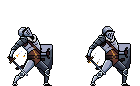
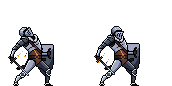
v0.1.3

Changed region(s): [[0.5429, 0.3023, 0.9429, 1.0], [0.0286, 0.3023, 0.4, 1.0]]

diff --git a/Characters.py b/Characters.py
@@ -5,14 +5,18 @@ from customFunctions import load_sprite_sheets
 class Characters(pg.sprite.Sprite):
     GRAVITY = 50
     def __init__(self, sprite_dir1, sprite_dir2,sprite_w, sprite_h, x, y,speed, jump_p,
-                 strength,dmg,hp, range,  scale = 2):
+                 strength,dmg,hp, range,  scale = 2, death_offset = 0):
         super().__init__()
         self.size = (sprite_w*scale, sprite_h*scale)
         self.sprites = load_sprite_sheets(sprite_dir1, sprite_dir2, sprite_w, sprite_h, scale=scale)
         self.sprite = self.sprites["Idle_right"][0]
         self.pos = list((x, y))
         self.vel = list((0, 0))
+        self.hp_bar_width = 100
+        self.hp_bar_height = 30
         self.hp = hp
+        self.hp_bar = pg.Rect(x+self.size[0]//2 - self.hp_bar_width//2,
+                                  y, self.hp_bar_width, self.hp_bar_height)
         self.range = range
         self.rect = pg.Rect(x,y,sprite_w *scale , sprite_h * scale) # collision rect (collision with mask)
         self.jump_p = jump_p
@@ -22,17 +26,19 @@ class Characters(pg.sprite.Sprite):
         self.anim_count = 0 # animation frame counter
         self.animation_time = 7 # frames before next animation frame
         self.fall_count = 0
-        self.mask = pg.mask.from_surface(self.sprite)
-        self.collision_x = False
-        self.collision_y = False
+        self.deathoffset = death_offset # adjusts death animation to fit
         self.dead = False
-        self.is_attacking = False
         self.melee = False
         self.direction = "right"
         self.type = "Character"
         self.collide_with = ["Object"] # list of object types that player can't walk through
+        self.mask = pg.mask.from_surface(self.sprite)
+        self.collision_x = False
+        self.collision_y = False
+        self.is_attacking = False
         self.attack_cooldown = 0
         self.attack_frame = False # frame in which collision test takes place
+        self.hit = False
 
     def draw(self, surface, offset):
         if not self.dead:
@@ -43,34 +49,37 @@ class Characters(pg.sprite.Sprite):
                 self.sprite = self.sprites["Run_"+self.direction][
                     self.anim_count // self.animation_time % len(self.sprites["Run_"+self.direction])]
             elif self.vel[1] != 0:
-                self.sprite = self.sprites["Fall_"+self.direction][
-                    self.anim_count // self.animation_time % len(self.sprites["Fall_"+self.direction])]
+                self.sprite = self.sprites["Idle_"+self.direction][
+                    self.anim_count // self.animation_time % len(self.sprites["Idle_"+self.direction])]
             if self.is_attacking:
                 if self.anim_count // self.animation_time <= len(self.sprites["Attack1_"+self.direction]):
                     self.sprite = self.sprites["Attack1_"+self.direction][
                         self.anim_count // self.animation_time % len(self.sprites["Attack1_"+self.direction])]
                 else:
                     self.is_attacking = False
-                if self.anim_count / self.animation_time == len(self.sprites["Attack1_" + self.direction]):
+                if self.anim_count / self.animation_time == len(self.sprites["Attack1_" + self.direction])-1:
                     self.attack_frame = True
                 else:
                     self.attack_frame = False
+            if self.hit:
+                self.sprite = self.sprites["Hurt_"+self.direction][self.anim_count//self.animation_time]
+                if self.anim_count+1 == (len(self.sprites["Hurt_"+self.direction]))*self.animation_time:
+                    self.hit = False
 
-            self.rect.x += offset[0]
-            self.rect.y += offset[1]
-            pg.draw.rect(surface, (0, 0, 255), self.rect, 2)
-            self.rect.x -= offset[0]
-            self.rect.y -= offset[1]
             surface.blit(self.sprite, (self.pos[0] + offset[0], self.pos[1]+offset[1]))
             self.anim_count += 1
         else:
             self.sprite = self.sprites["Dead_"+self.direction][
-                self.anim_count // self.animation_time % len(self.sprites["Dead_"+self.direction])]
-            surface.blit(self.sprite, (self.pos[0] + offset[0], self.pos[1]+offset[1]))
+                min(len(self.sprites["Dead_" + self.direction]) -1,
+                    self.anim_count // self.animation_time)]
+            surface.blit(self.sprite, (self.pos[0] + offset[0] + self.deathoffset,
+                                       self.pos[1]+offset[1]))
             self.anim_count += 1
 
     def update(self, objects, delta_time):
         if not self.dead:
+            self.loop()
+
             self.attack_cooldown = max(0, self.attack_cooldown-1)
             self.gravity_acc = min(1,(self.fall_count/1000 /delta_time) * self.GRAVITY)
             self.vel[1] += self.gravity_acc
@@ -94,27 +103,36 @@ class Characters(pg.sprite.Sprite):
             pass
 
     def attack(self):
-        if self.attack_cooldown == 0:
+        if self.attack_cooldown == 0 and not self.hit:
             self.is_attacking = True
             self.anim_count = 0
             self.vel[0] = 0
             self.attack_cooldown = len(self.sprites["Attack1_right"])*self.animation_time
 
-    def get_attacked(self, dmg, str):
+    def get_attacked(self, dmg, str, object):
         if not self.dead:
+            if object.direction == "right":
+                self.direction = "left"
+                self.vel[0] += str
+            else:
+                self.direction = "right"
+                self.vel[0] -= str
+            self.hit = True
+            self.vel[1] -= 0.2
             self.hp -= dmg
+            self.anim_count = 0
             if self.hp <=0:
                 self.dead = True
                 self.anim_count = 0
 
     def collide(self, objects, delta_time):
+        self.mask = self.mask = pg.mask.from_surface(self.sprite)
         for object in objects:
             if object != self:
-                if (object.type == "Enemy" and self.is_attacking and self.melee and
+                if (object.type != self.type and self.is_attacking and self.melee and
                         pg.sprite.collide_mask(self, object) and self.attack_frame):
-                    object.get_attacked(self.dmg, self.str)
+                    object.get_attacked(self.dmg, self.str, self)
                     self.attack_frame = False
-                    print(object.hp)
                 if object.type not in self.collide_with:
                     continue
                 self.rect.y += (self.vel[1] * delta_time)+2
@@ -145,15 +163,19 @@ class Characters(pg.sprite.Sprite):
         self.direction = "left"
 
     def stop(self):
-        if not self.is_attacking:
-            self.anim_count = 0
-        self.vel[0] = 0
+        if self.vel[0] > 0.1:
+            self.vel[0] -= self.vel[0]/6
+        elif self.vel[0] < -0.1:
+            self.vel[0] -= self.vel[0]/6
+        else:
+            self.vel[0] = 0
 
 
 class Player(Characters):
     def __init__(self, x, y):
         super().__init__("MainCharacters", "Knight_1",86, 86, x, y,
                          10,10, 10, 10, 100, 10)
+        self.type = "Player"
         self.melee = True
 
     def loop(self):
@@ -162,10 +184,11 @@ class Player(Characters):
 class Knight(Characters):
     def __init__(self, x, y):
         super().__init__("MainCharacters", "Knight_3",86, 86, x, y,
-                         8,10, 8, 8, 20, 10)
+                         8,10, 8, 8, 100, 10, death_offset=30)
         self.type = "Enemy"
         self.melee = True
 
     def loop(self):
-        pass
+        self.attack()
+        self.stop()
 

diff --git a/Main.py b/Main.py
@@ -20,7 +20,7 @@ WIN_SIZE = (1900, 900)
 FPS = 60
 
 # init & load
-window = pg.display.set_mode(WIN_SIZE, pg.RESIZABLE)
+window = pg.display.set_mode(WIN_SIZE)
 surface = pg.Surface((1920, 1080))
 
 def draw(surface, window, objects, background, player):
@@ -51,6 +51,8 @@ def main(window):
     a_pressed = False
     d_pressed = False
 
+    paused  = False
+
     # spawns ------------------------------------------------------
     for i in range(surface.get_width()//16):
         objects.append(Object("Tileset", "Night", 32,32,i*64,
@@ -67,10 +69,17 @@ def main(window):
             if event.type == pg.QUIT:
                 run = False
                 break
+            if event.type == pg.VIDEORESIZE:
+                background.update()
             if event.type == pg.KEYDOWN:
                 if event.key == pg.K_ESCAPE:
                     run = False
                     break
+                if event.key == pg.K_p:
+                    if paused:
+                        paused = False
+                    else:
+                        paused = True
                 if event.key == pg.K_SPACE:
                     player.attack()
                 # if event.key == pg.K_w:
@@ -86,18 +95,18 @@ def main(window):
                     a_pressed = False
                 if event.key == pg.K_d:
                     d_pressed = False
-            if event.type == pg.VIDEORESIZE:
-                background.update()
 
-        if a_pressed:
-            player.moveleft()
-        elif d_pressed:
-            player.moveright()
-        else:
-            player.stop()
+        if not paused:
 
-        update(objects, delta_time)
-        draw(surface, window, objects, background, player)
+            if a_pressed:
+                player.moveleft()
+            elif d_pressed:
+                player.moveright()
+            else:
+                player.stop()
+
+            update(objects, delta_time)
+            draw(surface, window, objects, background, player)
 
 
     pg.quit()

diff --git a/Objects.py b/Objects.py
@@ -10,6 +10,7 @@ class Object(pg.sprite.Sprite):
         self.pos = list((x, y))
         self.rect = pg.Rect(x,y, sprite_w,sprite_h)
         self.mask = pg.mask.from_surface(self.sprite)
+        self.vel = (0,0)
         if collide:
             self.type = "Object"
         else:
